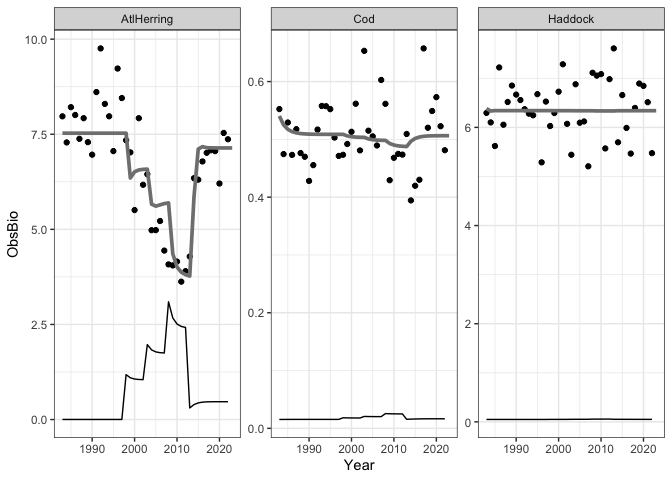
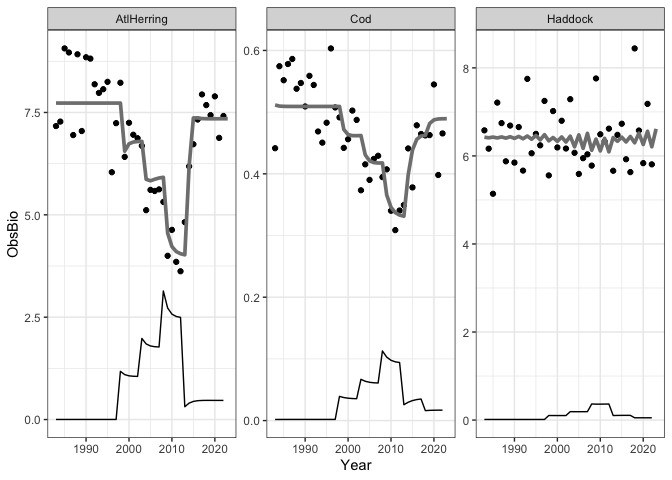
update with new Rpath run

diff --git a/multispecies/MultispeciesMSE.md b/multispecies/MultispeciesMSE.md
@@ -110,9 +110,9 @@ str(GB.data)
     ## Classes 'data.table' and 'data.frame':   120 obs. of  5 variables:
     ##  $ Year    : int  1983 1984 1985 1986 1987 1988 1989 1990 1991 1992 ...
     ##  $ Species : chr  "Cod" "Cod" "Cod" "Cod" ...
-    ##  $ ObsBio  : num  0.552 0.475 0.529 0.473 0.518 ...
-    ##  $ TotCatch: num  0.0154 0.0154 0.0155 0.0155 0.0155 ...
-    ##  $ Fmort   : num  0.0278 0.0325 0.0292 0.0327 0.0299 ...
+    ##  $ ObsBio  : num  0.442 0.574 0.552 0.578 0.586 ...
+    ##  $ TotCatch: num  0.00181 0.00184 0.00186 0.00188 0.00188 ...
+    ##  $ Fmort   : num  0.00409 0.00321 0.00338 0.00325 0.00321 ...
     ##  - attr(*, ".internal.selfref")=<externalptr>
 
 ``` r
@@ -442,27 +442,27 @@ GBcod
 ```
 
     ## $pars
-    ## [1] -0.6154117 -0.6558974 -2.2247195
+    ## [1] -0.6701935 -0.2304331 -2.3782841
     ## 
     ## $biomass
-    ##  [1] 0.5404184 0.5250409 0.5173695 0.5133596 0.5112142 0.5100532 0.5094223
-    ##  [8] 0.5090799 0.5088954 0.5087972 0.5087462 0.5087208 0.5087089 0.5087043
-    ## [15] 0.5087032 0.5087038 0.5059534 0.5045932 0.5039484 0.5036558 0.5035282
-    ## [22] 0.5007887 0.4994081 0.4987280 0.4983971 0.4982342 0.4929030 0.4901548
-    ## [29] 0.4887389 0.4880037 0.4876125 0.4966825 0.5015735 0.5040732 0.5052920
-    ## [36] 0.5058625 0.5061225 0.5062421 0.5063027 0.5063401 0.5063692
+    ##  [1] 0.5116096 0.5098017 0.5093893 0.5092806 0.5092458 0.5092326 0.5092276
+    ##  [8] 0.5092261 0.5092265 0.5092276 0.5092290 0.5092305 0.5092318 0.5092330
+    ## [15] 0.5092341 0.5092349 0.4719121 0.4636557 0.4618841 0.4618094 0.4620525
+    ## [22] 0.4307199 0.4210665 0.4181843 0.4175851 0.4176187 0.3657245 0.3457196
+    ## [29] 0.3370487 0.3331660 0.3312795 0.3983110 0.4386530 0.4559198 0.4612804
+    ## [36] 0.4623669 0.4816092 0.4874697 0.4889433 0.4892696 0.4893518
     ## 
     ## $convergence
     ## [1] 0
     ## 
     ## $nll
-    ## [1] -33.03797
+    ## [1] -39.3231
     ## 
     ## $vcov
     ##               [,1]          [,2]          [,3]
-    ## [1,]  1.423093e-03 -1.749936e-02 -4.229697e-08
-    ## [2,] -1.749936e-02  2.602346e-01  8.139398e-07
-    ## [3,] -4.229697e-08  8.139398e-07  1.219567e-02
+    ## [1,]  3.212088e-04 -1.011865e-03 -6.862185e-07
+    ## [2,] -1.011865e-03  5.764018e-03  7.038378e-06
+    ## [3,] -6.862185e-07  7.038378e-06  1.218913e-02
 
 Fit the logistic model to data (GBherring):
 
@@ -472,27 +472,27 @@ GBherring
 ```
 
     ## $pars
-    ## [1]  2.0188659  0.2364302 -2.1480052
+    ## [1]  2.0452567  0.2470391 -2.3721717
     ## 
     ## $biomass
-    ##  [1] 7.529781 7.527551 7.528080 7.527911 7.527945 7.527932 7.527935 7.527934
-    ##  [9] 7.527934 7.527934 7.527934 7.527934 7.527934 7.527934 7.527934 7.527934
-    ## [17] 6.350312 6.512945 6.561671 6.577174 6.582462 5.662317 5.609675 5.643432
-    ## [25] 5.676540 5.696087 4.357552 4.010960 3.873795 3.808987 3.771620 5.851700
-    ## [33] 7.110337 7.174143 7.146059 7.142422 7.140206 7.139688 7.139599 7.139644
-    ## [41] 7.139702
+    ##  [1] 7.731143 7.728940 7.729494 7.729314 7.729356 7.729341 7.729344 7.729343
+    ##  [9] 7.729343 7.729343 7.729343 7.729343 7.729343 7.729343 7.729343 7.729343
+    ## [17] 6.554175 6.733990 6.777934 6.790430 6.794363 5.867628 5.831486 5.868671
+    ## [25] 5.899521 5.916098 4.554007 4.225116 4.103541 4.050814 4.023411 6.180407
+    ## [33] 7.366130 7.368061 7.350684 7.347242 7.346002 7.346277 7.346699 7.346952
+    ## [41] 7.347016
     ## 
     ## $convergence
     ## [1] 0
     ## 
     ## $nll
-    ## [1] -29.88969
+    ## [1] -39.07345
     ## 
     ## $vcov
     ##               [,1]          [,2]          [,3]
-    ## [1,]  4.192576e-04 -7.178308e-04 -9.523352e-07
-    ## [2,] -7.178308e-04  1.748822e-03  4.168951e-06
-    ## [3,] -9.523352e-07  4.168951e-06  1.219391e-02
+    ## [1,]  2.698832e-04 -4.835464e-04 -7.479694e-07
+    ## [2,] -4.835464e-04  1.298939e-03  7.440093e-06
+    ## [3,] -7.479694e-07  7.440093e-06  1.218977e-02
 
 Fit the logistic model to data (GBhaddock):
 
@@ -502,27 +502,27 @@ GBhaddock
 ```
 
     ## $pars
-    ## [1]  1.8535726  0.1875406 -2.3782023
+    ## [1]  1.8602168  0.7813654 -2.2906425
     ## 
     ## $biomass
-    ##  [1] 6.382582 6.333023 6.342806 6.340995 6.341386 6.341354 6.341398 6.341422
-    ##  [9] 6.341445 6.341465 6.341482 6.341497 6.341510 6.341521 6.341532 6.341542
-    ## [17] 6.340236 6.340428 6.340287 6.340202 6.340116 6.338714 6.338824 6.338615
-    ## [25] 6.338473 6.338338 6.335520 6.335750 6.335330 6.335046 6.334778 6.339565
-    ## [33] 6.338738 6.339150 6.339351 6.339568 6.339742 6.339884 6.339996 6.340086
-    ## [41] 6.340159
+    ##  [1] 6.425130 6.411249 6.427585 6.408286 6.431051 6.404179 6.435881 6.398453
+    ##  [9] 6.442594 6.390461 6.451915 6.379299 6.464848 6.363705 6.482765 6.341904
+    ## [17] 6.417700 6.331018 6.430960 6.315595 6.448059 6.206758 6.477473 6.172147
+    ## [25] 6.512577 6.127937 6.381673 6.114104 6.399022 6.092905 6.416214 6.332755
+    ## [33] 6.426125 6.317310 6.441884 6.298218 6.518201 6.260053 6.559505 6.208016
+    ## [41] 6.614554
     ## 
     ## $convergence
     ## [1] 0
     ## 
     ## $nll
-    ## [1] -39.32879
+    ## [1] -35.7394
     ## 
     ## $vcov
     ##               [,1]          [,2]          [,3]
-    ## [1,]  2.989882e-04 -1.418830e-02 -1.006583e-07
-    ## [2,] -1.418830e-02  2.186002e+00  5.287660e-06
-    ## [3,] -1.006583e-07  5.287660e-06  1.219450e-02
+    ## [1,]  2.456998e-04 -3.163436e-06 -1.294359e-07
+    ## [2,] -3.163436e-06  2.166919e-05  8.424341e-07
+    ## [3,] -1.294359e-07  8.424341e-07  1.219486e-02
 
 GB SS model fit plots: fitted line in gray
 
